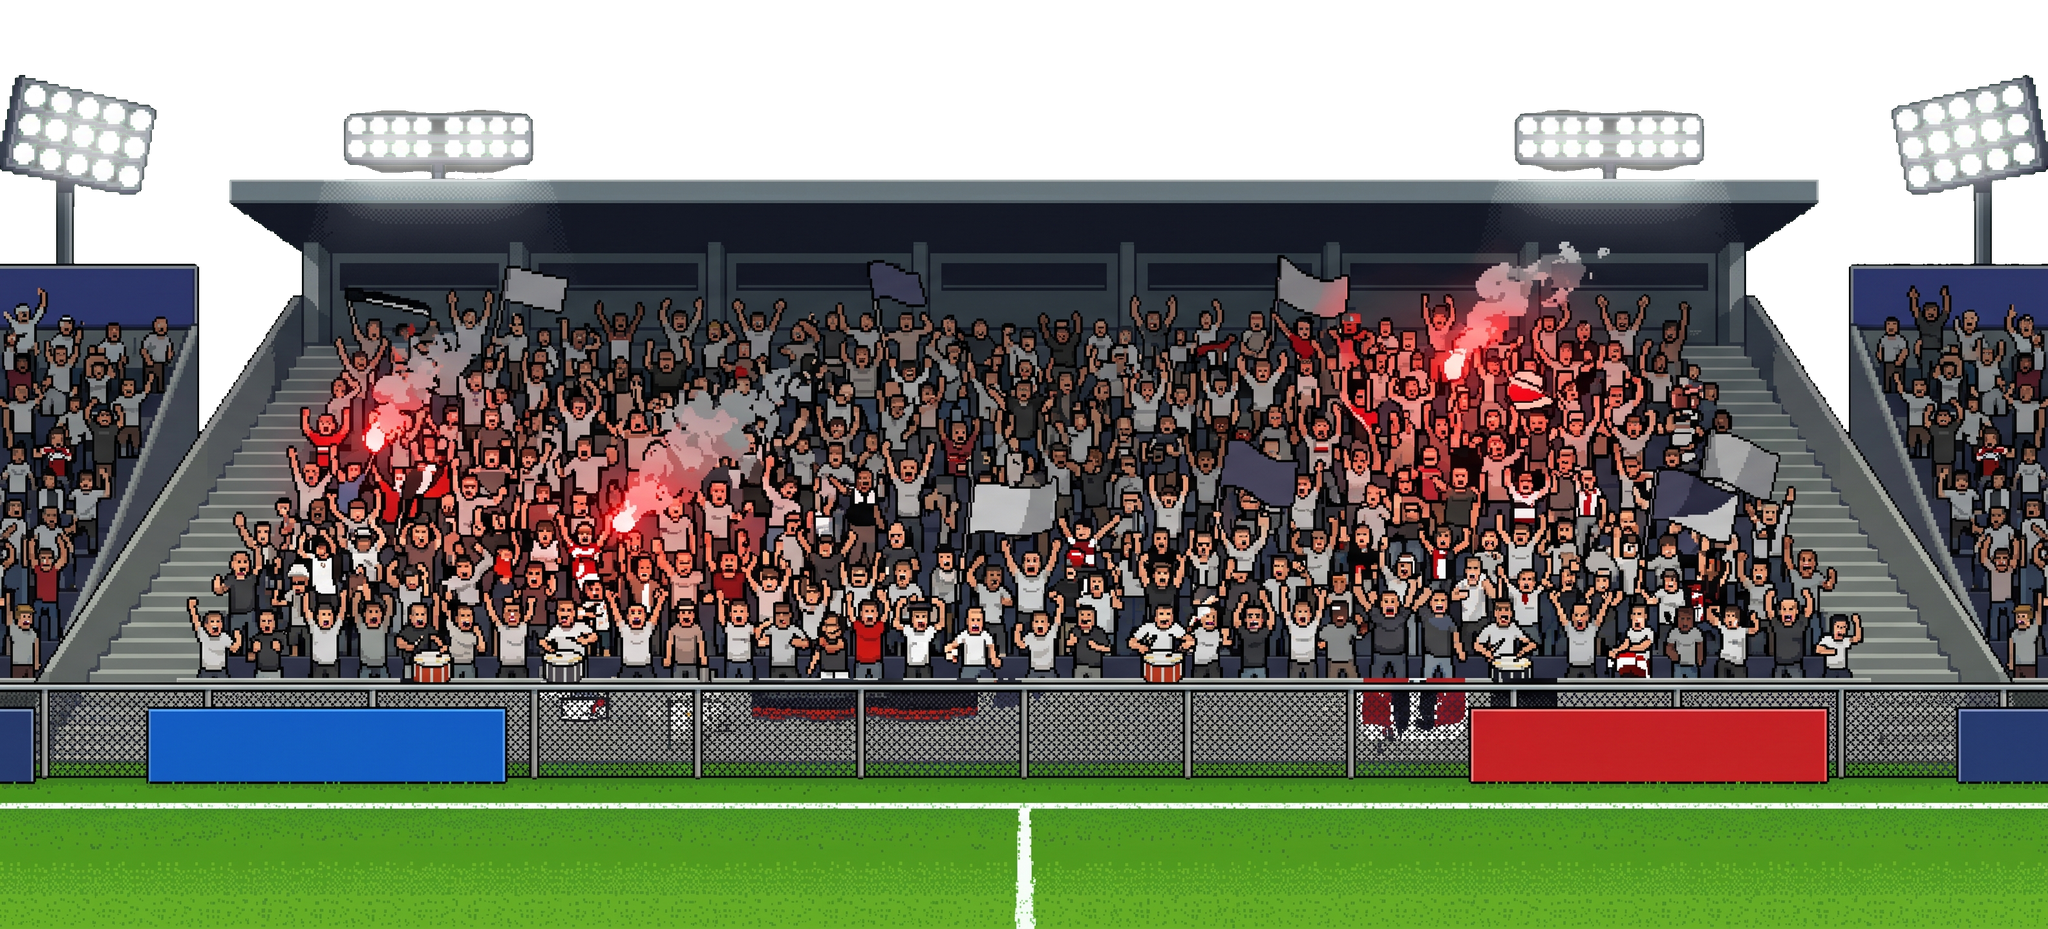
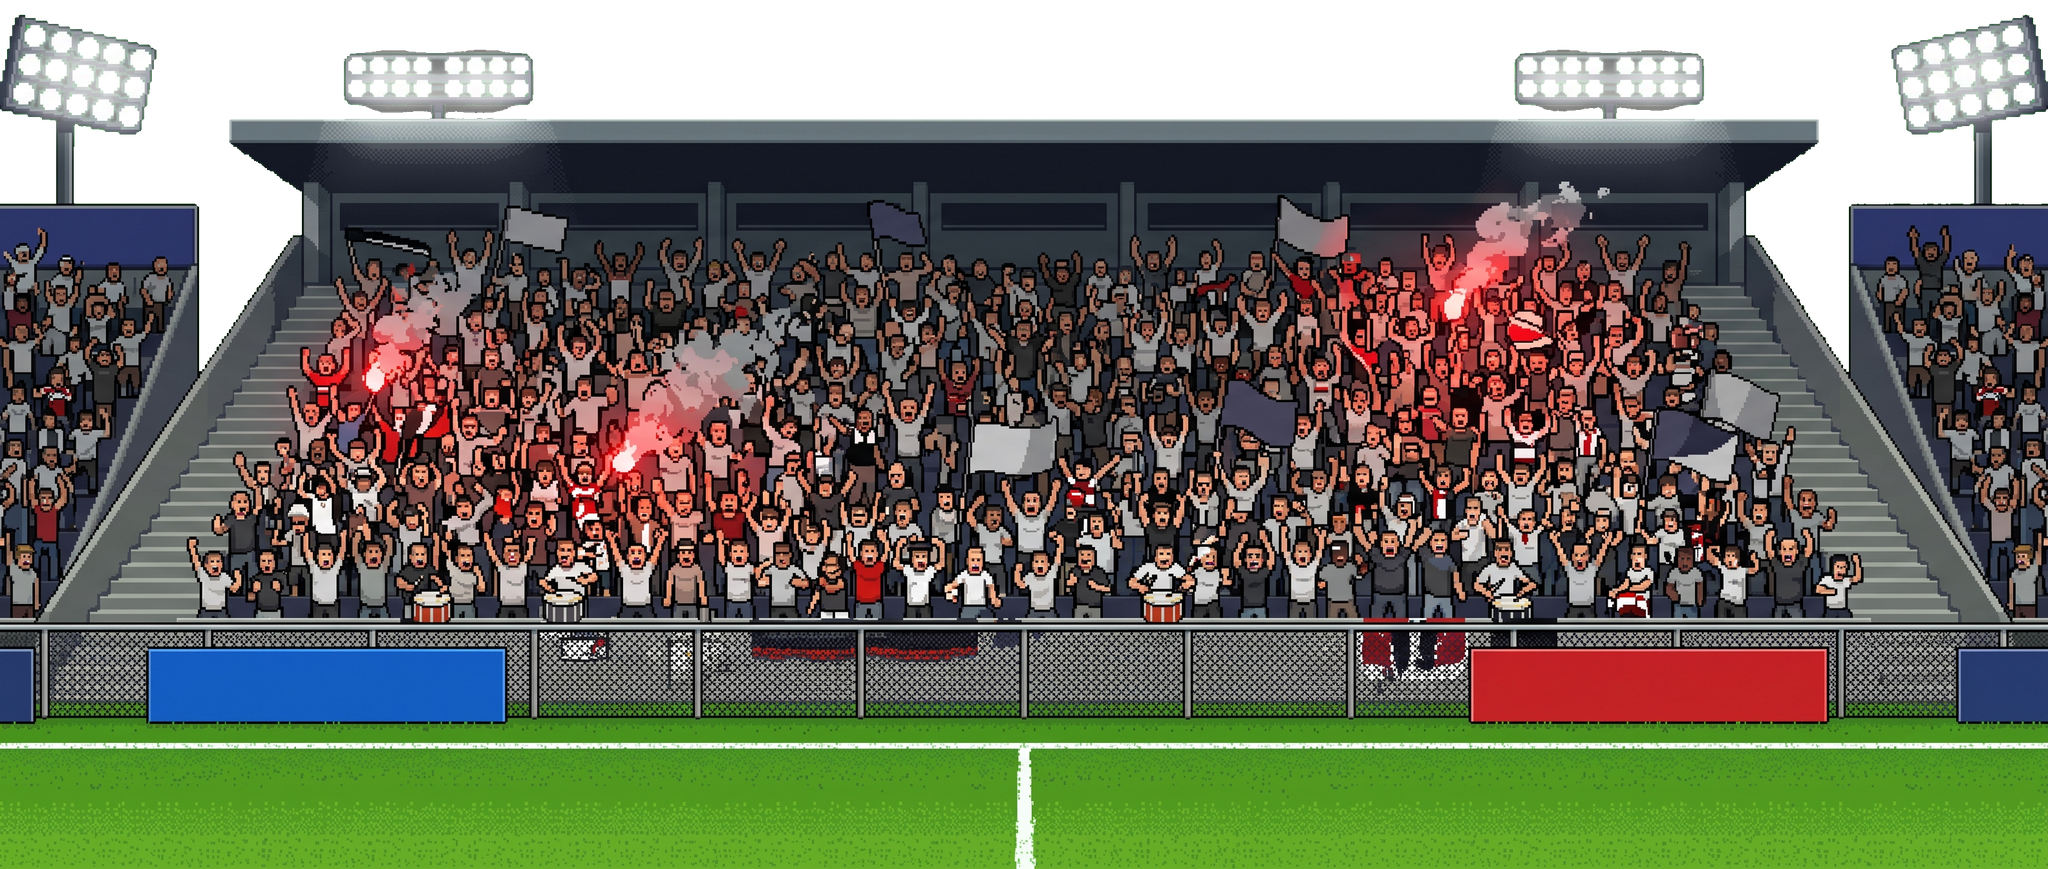
Chão vira propriedade do cenário; estádio com os pés no gramado

diff --git a/src/scenes/MatchScene.ts b/src/scenes/MatchScene.ts
@@ -3,13 +3,12 @@ import * as Phaser from 'phaser';
 import { Fighter, NEUTRAL_FIGHTER_INPUT, type FighterInput } from '../game/fighter';
 import { getCharacterDefinition } from '../game/hero';
 import { MatchHud } from '../game/matchHud';
-import { getStageDefinition } from '../game/stageConfig';
+import { DEFAULT_GROUND_FRACTION, getStageDefinition } from '../game/stageConfig';
 import { playSuperCutIn } from '../game/superCutIn';
 import { SCENE_KEYS, type MatchConfig } from '../game/types';
 import { spawnHitSpark, type VfxColor } from '../game/vfx';
 import { BaseScene } from './BaseScene';
 
-const GROUND_FRACTION = 0.82;
 const EDGE_MARGIN = 170;
 const DEPTH_FRONT = 8;
 const DEPTH_BACK = 5;
@@ -362,7 +361,8 @@ export class MatchScene extends BaseScene {
   /** Spawns P1 (left, facing right) and P2 (right, facing left). */
   private spawnFighters(): void {
     const cam = this.cameras.main;
-    const groundY = Math.round(cam.height * GROUND_FRACTION);
+    const stage = getStageDefinition(this.config.stageId);
+    const groundY = Math.round(cam.height * (stage.groundFraction ?? DEFAULT_GROUND_FRACTION));
     const minX = EDGE_MARGIN;
     const maxX = this.stageWorldWidth - EDGE_MARGIN;
     const center = this.stageWorldWidth / 2;

diff --git a/src/game/stageConfig.ts b/src/game/stageConfig.ts
@@ -23,7 +23,15 @@ export interface StageDefinition {
     width: number;
     height: number;
   };
+  /**
+   * Onde os pés dos lutadores encostam, como fração da altura da tela
+   * (0 = topo, 1 = base). Padrão 0.82. Cada cenário ajusta o seu; ver
+   * `docs/prompt-cenario.md`.
+   */
+  groundFraction?: number;
 }
+
+export const DEFAULT_GROUND_FRACTION = 0.82;
 
 /**
  * The computed placement of a stage when fit to a viewport: vertical-fit scale,
@@ -65,8 +73,9 @@ export const STAGE_DEFINITIONS: StageDefinition[] = [
     key: 'estadio-stage',
     url: '/assets/cenarios/estadio/cenario.png',
     width: 2048,
-    height: 929,
-    sky: { key: 'estadio-sky', url: '/assets/cenarios/estadio/ceu.jpg', width: 1920, height: 1080 }
+    height: 869,
+    sky: { key: 'estadio-sky', url: '/assets/cenarios/estadio/ceu.jpg', width: 1920, height: 1080 },
+    groundFraction: 0.92
   }
 ];
 

diff --git a/docs/diario-de-bordo.md b/docs/diario-de-bordo.md
@@ -312,3 +312,28 @@ verde no refletor precisou de segundo passo de despill.
 arquibancada porque o céu é esticado para a tela inteira; se ele quiser ver
 os morros, gerar o céu com o horizonte mais alto (uns 25% do topo). Torcida
 animada fica para depois da v1.
+
+## 2026-09-22: lutadores flutuando no estádio, chão vira propriedade do cenário
+
+**Marco:** Marco 2, em andamento.
+**Pedido:** "Os lutadores estão voando. Tem alguma forma de corrigir isso com
+o menu de debug? Eles não estão pisando onde deveriam".
+**Feito:**
+- Causa: a faixa transparente de 93 px que eu tinha acrescentado no topo do
+  cenário empurrou o gramado para baixo, mas o motor manteve os pés a 82%
+  da tela (`GROUND_FRACTION` fixo). Conta errada minha.
+- Correção no motor: `groundFraction` opcional em `StageDefinition`
+  (`DEFAULT_GROUND_FRACTION = 0.82`), `MatchScene` lê do cenário. Não é
+  menu de debug: é um número por cenário, no registro.
+- `cenario.png` refeito sem a faixa (2048×869), mesmo recorte e despill.
+- Estádio com `groundFraction: 0.92`. O primeiro chute (0.876) deixou os pés
+  na beirada do gramado, porque os sprites têm ~27 px de margem abaixo dos
+  pés na célula (×1,6 = 43 px na tela). Anotado em `docs/prompt-cenario.md`.
+**Verificado:** `npm run check` verde. Playwright: luta no estádio com os dois
+em pé no gramado, sombra na grama, abaixo do alambrado. Zero erro de console.
+**Créditos gastos:** nada.
+**Refeito ou apagado a pedido dele:** o posicionamento do chão do estádio,
+motivo dado: "estão voando, não estão pisando onde deveriam".
+**Aprovado explicitamente:** nada.
+**Atrito:** nada além do erro de conta.
+**Em aberto:** os mesmos itens da entrada anterior.

diff --git a/docs/prompt-cenario.md b/docs/prompt-cenario.md
@@ -79,12 +79,14 @@ Anexar: `anchor-w.png` do Urubu (estilo) e
    registro o cenário em `src/game/stageConfig.ts` e ele aparece na tela
    `Select Stage` ao lado dos dois rooftops de amostra.
 3. Conferir na luta: o céu parado, a arquibancada andando, os pés no gramado.
-   Se o chão não bater, eu ajusto por script (corte ou preenchimento), não
-   gera de novo.
+   Se o chão não bater, o ajuste é o número `groundFraction` no registro do
+   cenário (`src/game/stageConfig.ts`), não corte de imagem nem geração
+   nova. Atenção: os sprites têm uns 27 px de margem abaixo dos pés na
+   célula de 256, então o pé visível fica ~43 px acima do ponto de chão.
 
 ## Iteração que costuma ser necessária
 
-- Chão fora dos 82%: corrigir por script, não por prompt.
+- Chão fora do lugar: corrigir com `groundFraction`, não por prompt.
 - Texto ou escudo apareceu em placa ou bandeira: pedir edição curta sobre a
   imagem gerada, só com a mudança ("remove the letters on the boards, keep
   everything else"), como já aprendido com a referência dos mascotes.

diff --git a/docs/licoes.md b/docs/licoes.md
@@ -68,6 +68,11 @@ Coisas que ele aprovou de forma explícita, ou que repetiu como regra.
   fists raised` além de congelar os pés. Job de personagem exige ao menos
   uma animação, então o teste mínimo de anchor custa 160, não 60.
   (2026-09-22)
+- **Pé visível não é o ponto de chão.** Os sprites do Spriterrific têm ~27
+  px de margem abaixo dos pés na célula de 256 (43 px na tela a 1,6×). Ao
+  posicionar cenário, mirar o chão do motor 40 px abaixo de onde o pé deve
+  parecer pisar. Deslocar imagem com faixa transparente não resolve: o chão
+  é fração da tela, não da imagem. (2026-09-22)
 - O Spriterrific não faz o estilo 16-bit arcade do SF2. O melhor é o mixels.
   Dizer isso antes de gastar crédito, não depois. (2026-09-17, lido na
   própria skill)
